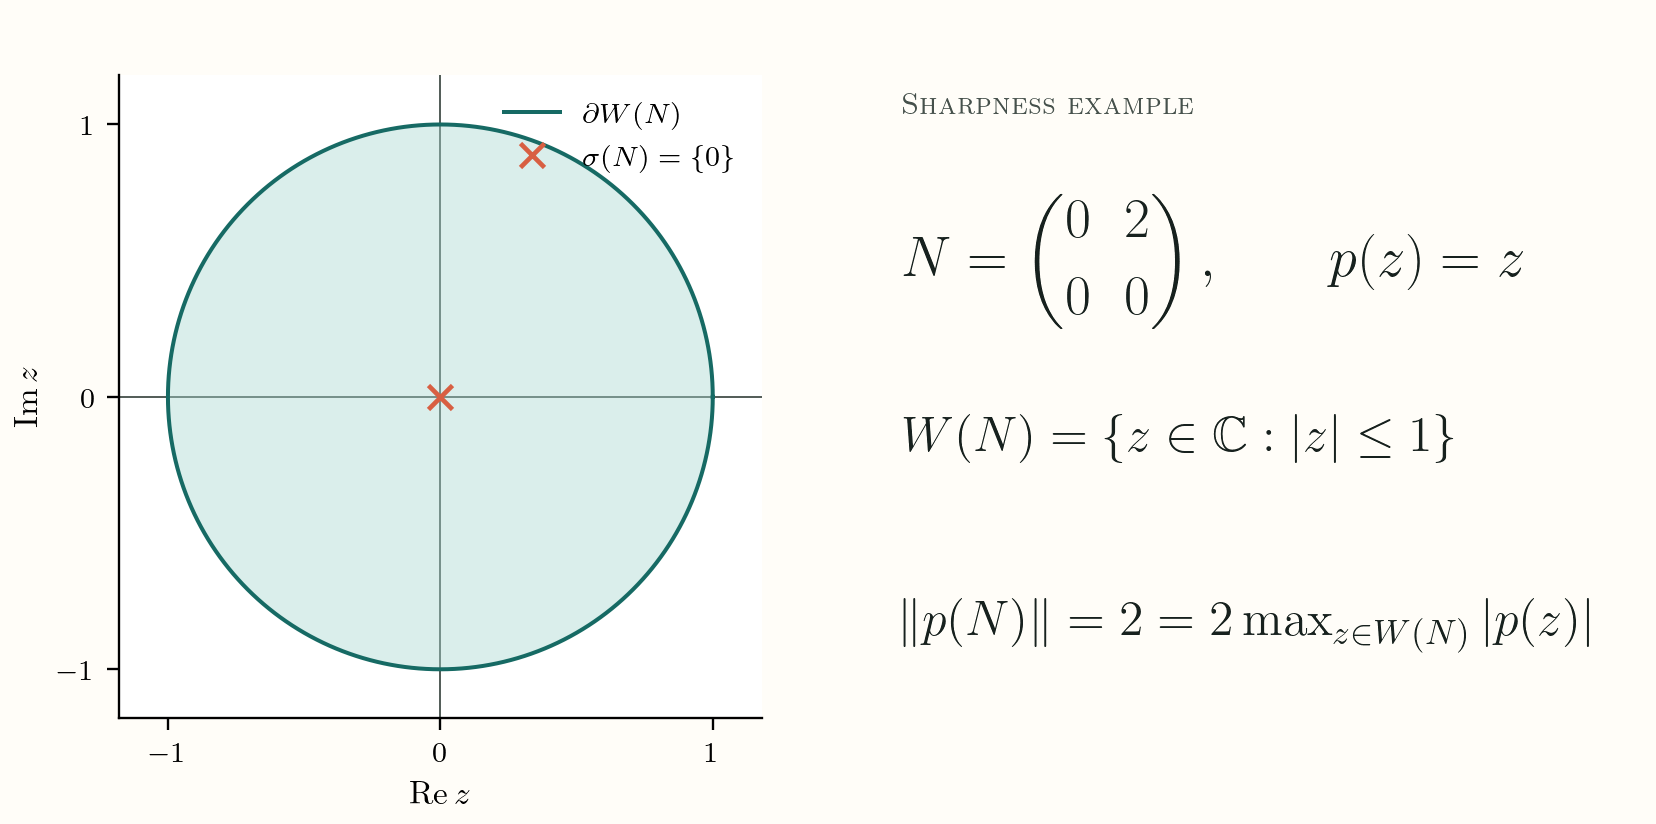
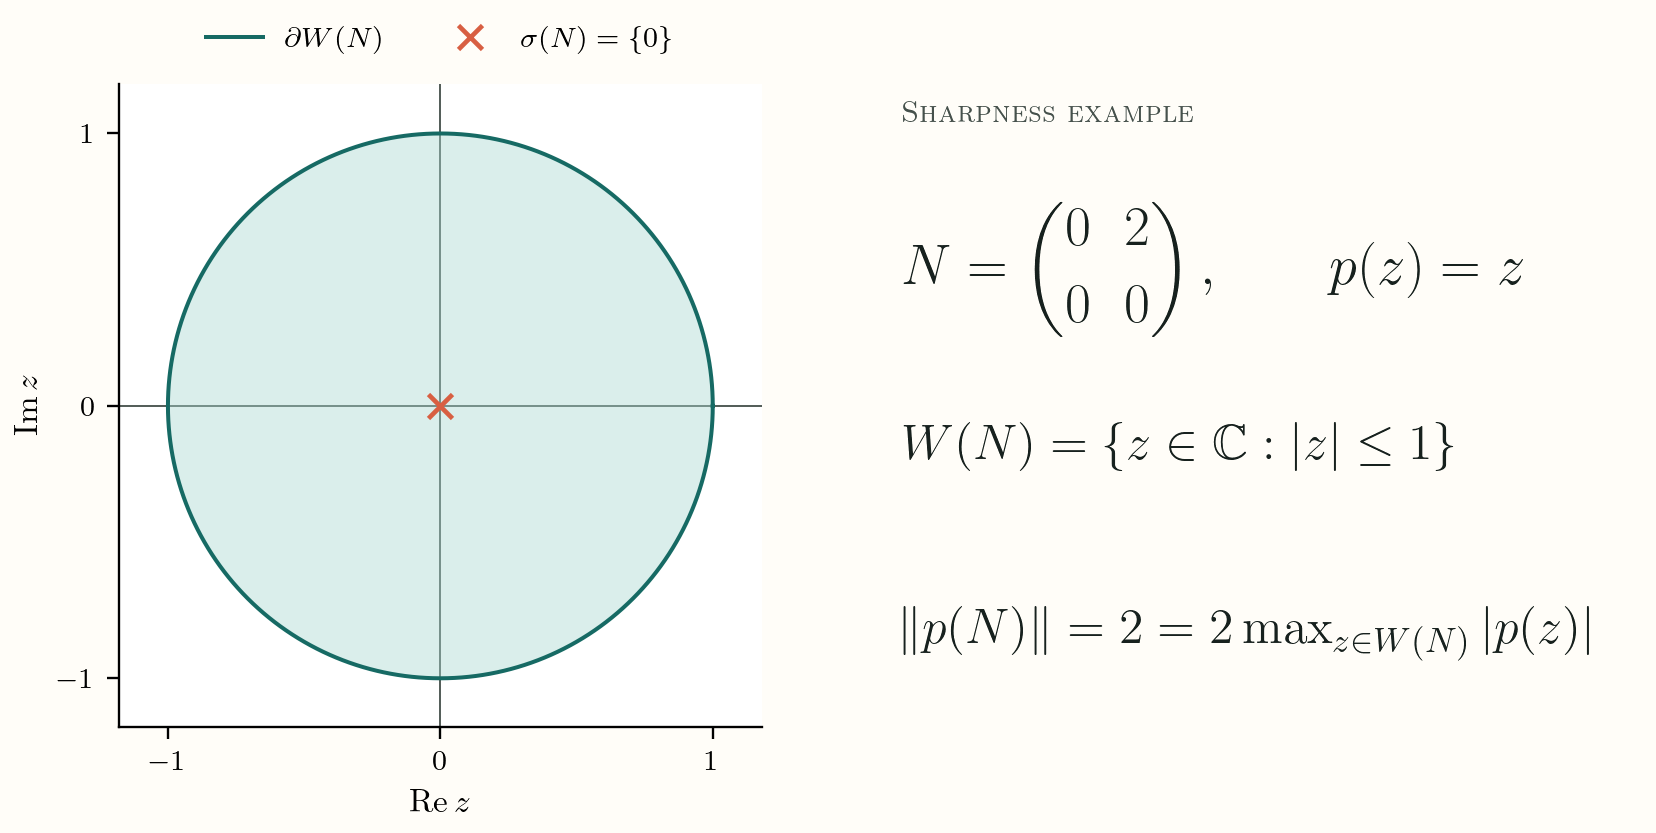
Refine academic homepage details

diff --git a/index.html b/index.html
@@ -86,8 +86,7 @@
       <section class="hero" id="top" aria-labelledby="hero-title">
         <div class="hero-grid">
           <div class="hero-copy">
-            <p class="eyebrow"><span></span> Mathematical research · Beijing</p>
-            <p class="hero-name">Shanmu Jin</p>
+            <p class="eyebrow"><span></span> Mathematical research</p>
             <h1 id="hero-title">
               Operator theory and<br />
               <em>matrix pseudospectra</em>
@@ -461,14 +460,13 @@
       <section class="about-section" id="about" aria-labelledby="about-title">
         <div class="about-label">
           <p class="section-kicker">About</p>
-          <span class="about-monogram" aria-hidden="true">SJ</span>
         </div>
 
         <div class="about-copy">
           <h2 id="about-title">Research interests</h2>
           <p class="about-lead">
-            I am Shanmu Jin, affiliated with the Department of Neurosurgery at
-            Peking Union Medical College Hospital in Beijing.
+            Affiliated with the Department of Neurosurgery at Peking Union
+            Medical College Hospital in Beijing.
           </p>
           <p>
             My current projects concern operator theory, numerical linear
@@ -506,10 +504,9 @@
 
     <footer class="site-footer">
       <div>
-        <span class="footer-mark">SJ</span>
         <p>Research manuscripts and formalization materials.</p>
       </div>
-      <p>© 2026 Shanmu Jin</p>
+      <p>© 2026</p>
     </footer>
   </body>
 </html>

diff --git a/styles.css b/styles.css
@@ -111,8 +111,7 @@ img {
   text-decoration: none;
 }
 
-.brand-mark,
-.footer-mark {
+.brand-mark {
   display: inline-grid;
   width: 38px;
   height: 38px;
@@ -199,13 +198,6 @@ img {
   width: 34px;
   height: 2px;
   background: var(--coral);
-}
-
-.hero-name {
-  margin: 0 0 8px;
-  font-size: clamp(17px, 1.8vw, 22px);
-  font-weight: 650;
-  letter-spacing: -0.02em;
 }
 
 .hero h1,
@@ -817,24 +809,6 @@ img {
   grid-template-columns: 0.32fr 1fr;
 }
 
-.about-label {
-  display: flex;
-  flex-direction: column;
-  justify-content: space-between;
-}
-
-.about-monogram {
-  display: grid;
-  width: 126px;
-  height: 126px;
-  border: 1px solid var(--ink);
-  border-radius: 50%;
-  place-items: center;
-  font-family: var(--serif);
-  font-size: 44px;
-  font-style: italic;
-}
-
 .about-copy h2 {
   max-width: 940px;
   font-size: clamp(50px, 5.5vw, 84px);
@@ -1170,16 +1144,6 @@ img {
     padding: 100px 0;
     gap: 38px;
     grid-template-columns: 1fr;
-  }
-
-  .about-label {
-    flex-direction: row;
-  }
-
-  .about-monogram {
-    width: 70px;
-    height: 70px;
-    font-size: 25px;
   }
 
   .about-copy h2 {

diff --git a/scripts/generate_research_figures.py b/scripts/generate_research_figures.py
@@ -138,7 +138,13 @@ def crouzeix_sharpness_figure() -> None:
         ax.set_yticks([-1.0, 0.0, 1.0])
         ax.spines["top"].set_visible(False)
         ax.spines["right"].set_visible(False)
-        ax.legend(loc="upper right", frameon=False)
+        ax.legend(
+            loc="lower center",
+            bbox_to_anchor=(0.5, 1.03),
+            ncol=2,
+            frameon=False,
+            borderaxespad=0.0,
+        )
 
         statement.axis("off")
         statement.text(
